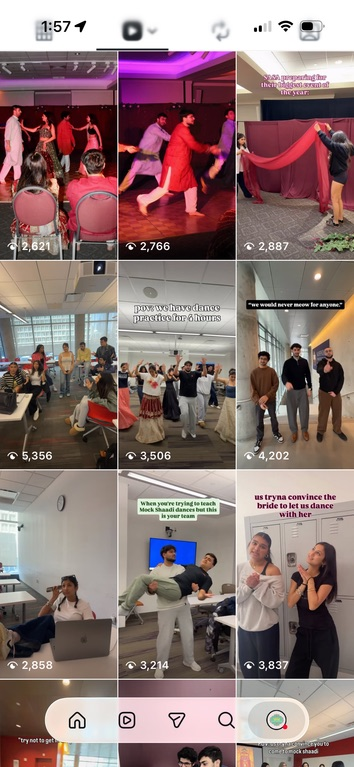
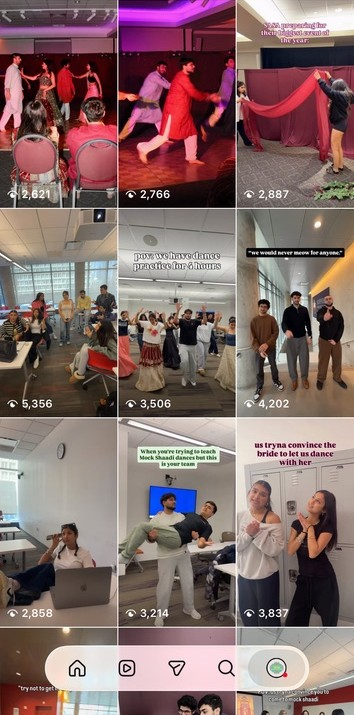
Crop Instagram grid screenshots to match; remove phone status bar on SASA

diff --git a/south-asian-student-association.html b/south-asian-student-association.html
@@ -90,9 +90,9 @@
         <div class="cs-wide grid4">
             <figure class="t t--wide t--frame t--bare"><div class="t__img"><img src="assets/work/south-asian-student-association/logo-before.png" alt="Previous SASA logo: multicolored circular emblem with SASA lettering" width="472" height="380" loading="lazy"></div><figcaption>Logo · before</figcaption></figure>
             <figure class="t t--wide t--frame t--bare" style="--logo-scale:1.2"><div class="t__img"><img src="assets/work/south-asian-student-association/logo-after.png" alt="New SASA logo: mint and pink badge reading SASA, South Asian Student Association" width="633" height="616" loading="lazy"></div><figcaption>Logo · after</figcaption></figure>
-            <figure class="t t--tall t--frame t--lead"><div class="t__img"><img src="assets/work/south-asian-student-association/feed-before.jpg" alt="Previous Instagram grid with event posts in many unrelated styles" width="472" height="1023" loading="lazy"></div><figcaption>Instagram grid · before</figcaption></figure>
-            <figure class="t t--tall t--frame"><div class="t__img"><img src="assets/work/south-asian-student-association/feed-after-1.jpg" alt="Rebranded Instagram grid with holiday, general meeting and event posts" width="354" height="767" loading="lazy"></div><figcaption>Instagram grid · after</figcaption></figure>
-            <figure class="t t--tall t--frame"><div class="t__img"><img src="assets/work/south-asian-student-association/feed-after-2.jpg" alt="Reels grid of Mock Shaadi rehearsals and performances, each with 2,000–5,000 views" width="354" height="767" loading="lazy"></div><figcaption>Reels grid · after</figcaption></figure>
+            <figure class="t t--tall t--frame t--lead"><div class="t__img"><img src="assets/work/south-asian-student-association/feed-before.jpg" alt="Previous Instagram grid with event posts in many unrelated styles" width="472" height="953" loading="lazy"></div><figcaption>Instagram grid · before</figcaption></figure>
+            <figure class="t t--tall t--frame"><div class="t__img"><img src="assets/work/south-asian-student-association/feed-after-1.jpg" alt="Rebranded Instagram grid with holiday, general meeting and event posts" width="354" height="715" loading="lazy"></div><figcaption>Instagram grid · after</figcaption></figure>
+            <figure class="t t--tall t--frame"><div class="t__img"><img src="assets/work/south-asian-student-association/feed-after-2.jpg" alt="Reels grid of Mock Shaadi rehearsals and performances, each with 2,000–5,000 views" width="354" height="715" loading="lazy"></div><figcaption>Reels grid · after</figcaption></figure>
             <figure class="t t--tall t--kit">
               <div class="t__img kit">
                 <div>

diff --git a/women-in-business.html b/women-in-business.html
@@ -90,9 +90,9 @@
         <div class="cs-wide grid4">
             <figure class="t t--wide t--frame t--bare"><div class="t__img"><img src="assets/work/women-in-business/logo-before.jpg" alt="Previous Women in Business logo: bold black WIB lettering with a red brushstroke" width="610" height="232" loading="lazy"></div><figcaption>Logo · before</figcaption></figure>
             <figure class="t t--wide t--frame t--bare t--circle"><div class="t__img"><img src="assets/work/women-in-business/logo-after.png" alt="New Women in Business logo: burgundy lowercase wib with a red stiletto in a grey circle" width="555" height="553" loading="lazy"></div><figcaption>Logo · after</figcaption></figure>
-            <figure class="t t--tall t--frame t--lead"><div class="t__img"><img src="assets/work/women-in-business/feed-before.jpg" alt="Previous Instagram grid with mixed pink, purple and green post styles" width="472" height="887" loading="lazy"></div><figcaption>Instagram grid · before (2024)</figcaption></figure>
+            <figure class="t t--tall t--frame t--lead"><div class="t__img"><img src="assets/work/women-in-business/feed-before.jpg" alt="Previous Instagram grid with mixed pink, purple and green post styles" width="472" height="739" loading="lazy"></div><figcaption>Instagram grid · before (2024)</figcaption></figure>
             <figure class="t t--tall t--frame"><div class="t__img"><img src="assets/work/women-in-business/feed-after-1.jpg" alt="Rebranded Instagram grid in burgundy, cream and grey, with event and recruitment posts" width="354" height="554" loading="lazy"></div><figcaption>Instagram grid · after</figcaption></figure>
-            <figure class="t t--tall t--frame"><div class="t__img"><img src="assets/work/women-in-business/feed-after-2.jpg" alt="Rebranded Instagram grid with mentorship, hiring and mini-lesson posts" width="354" height="630" loading="lazy"></div><figcaption>Instagram grid · after</figcaption></figure>
+            <figure class="t t--tall t--frame"><div class="t__img"><img src="assets/work/women-in-business/feed-after-2.jpg" alt="Rebranded Instagram grid with mentorship, hiring and mini-lesson posts" width="354" height="554" loading="lazy"></div><figcaption>Instagram grid · after</figcaption></figure>
             <figure class="t t--tall t--kit">
               <div class="t__img kit">
                 <div>
